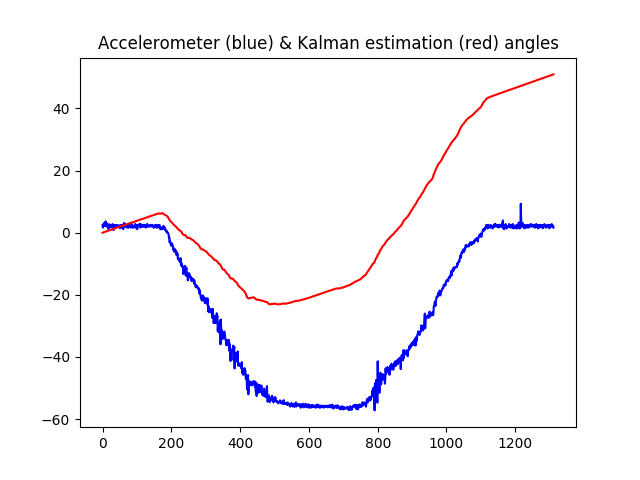
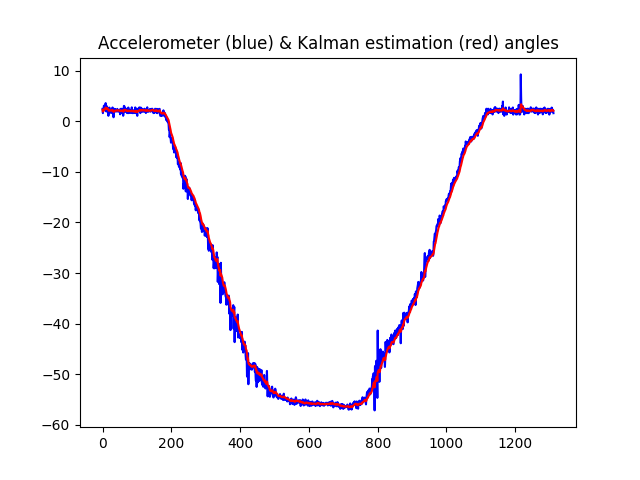
some final changes in ex5

diff --git a/rmuast_s17_module_5/exercise_imu_kalman/imu_exercise_kalman.py b/rmuast_s17_module_5/exercise_imu_kalman/imu_exercise_kalman.py
@@ -27,20 +27,20 @@ show3DLiveViewInterval = 3
 # Insert initialize code below ###################
 
 # approx. bias values determined by averaging over static measurements
-bias_gyro_x = 0.0  # [rad/measurement]
-bias_gyro_y = 0.0  # [rad/measurement]
-bias_gyro_z = 0.0  # [rad/measurement]
+bias_gyro_x = 0.07535  # [rad/measurement]
+bias_gyro_y = 0.04165  # [rad/measurement]
+bias_gyro_z = 0.0008  # [rad/measurement]
 
 # variances
-gyroVar = 0.008
-pitchVar = 0.008
+gyroVar = 1.2
+pitchVar = 1
 
 # Kalman filter start guess
 estAngle = -pi / 4.0
-estVar = 0.5
+estVar = 1
 
 # Kalman filter housekeeping variables
-gyroVarAcc = 0.5
+gyroVarAcc = 1
 
 ######################################################
 
@@ -59,7 +59,9 @@ f = open(fileName, "r")
 
 # initialize variables
 count = 0
-
+xk1 = 0
+pk1 = 1
+R = 0.1
 # initialize 3D liveview
 if show3DLiveView:
     imuview = imu_visualize()
@@ -110,20 +112,20 @@ for line in f:
 
     # Variables available
     # ----------------------------------------------------
-    # count		Current number of updates
-    # ts_prev	Time stamp at the previous update
-    # ts_now	Time stamp at this update
-    # acc_x		Acceleration measured along the x axis
-    # acc_y		Acceleration measured along the y axis
-    # acc_z		Acceleration measured along the z axis
-    # gyro_x	Angular velocity measured about the x axis
-    # gyro_y	Angular velocity measured about the y axis
-    # gyro_z	Angular velocity measured about the z axis
+    # count     Current number of updates
+    # ts_prev   Time stamp at the previous update
+    # ts_now    Time stamp at this update
+    # acc_x     Acceleration measured along the x axis
+    # acc_y     Acceleration measured along the y axis
+    # acc_z     Acceleration measured along the z axis
+    # gyro_x    Angular velocity measured about the x axis
+    # gyro_y    Angular velocity measured about the y axis
+    # gyro_z    Angular velocity measured about the z axis
 
     # Insert your code here ##
 
     # calculate pitch (x-axis) and roll (y-axis) angles
-    pitch = atan2(acc_y, sqrt(acc_x**2 + acc_z**2))
+    pitch = atan2(acc_y, sqrt(acc_x ** 2 + acc_z ** 2))
     roll = atan2(-acc_x, acc_z)
 
     # integrate gyro velocities to releative angles
@@ -132,12 +134,21 @@ for line in f:
     gyro_z_rel += gyro_z * (ts_now - ts_prev)
 
     # Kalman prediction step (we have new data in each iteration)
+    # xk is the predicted value and xk1 the previous estimation
+    # same goes for pk
+    xk = xk1
+    pk = pk1 * gyroVar
 
     # Kalman correction step (we have new data in each iteration)
+    # following the formulas in kalman_filter_notes.pdf and in
+    # http://bilgin.esme.org/BitsAndBytes/KalmanFilterforDummies
+    # the correction step for the filter became the following
+    kGain = pk / (pk + R)
+    xk1 = xk + kGain * (pitch - xk)
+    pk1 = (1 - kGain) * pk
 
     # define which value to plot as the Kalman filter estimate
-    kalman_estimate = gyro_x_rel
-
+    kalman_estimate = xk1
     # define which value to plot as the absolute value (pitch/roll)
     pitch_roll_plot = pitch
 
@@ -154,8 +165,8 @@ for line in f:
         yaw_view = 0.0
         pitch_view = kalman_estimate
 
-        imuview.set_axis(-pitch_view, -yaw_view, roll_view)
-        imuview.update()
+        # imuview.set_axis(-pitch_view, -yaw_view, roll_view)
+        # imuview.update()
 
     # if plotting is enabled
     if showPlot:
@@ -179,6 +190,6 @@ if showPlot:
     plt.plot(plotDataAcc, 'blue')
     plt.plot(plotDataKalman, 'red')
     plt.savefig('imu_exercise_acc_kalman.png')
-    plt.draw()
+    plt.show()
     print('Press enter to quit')
-    input()
+    # input()
